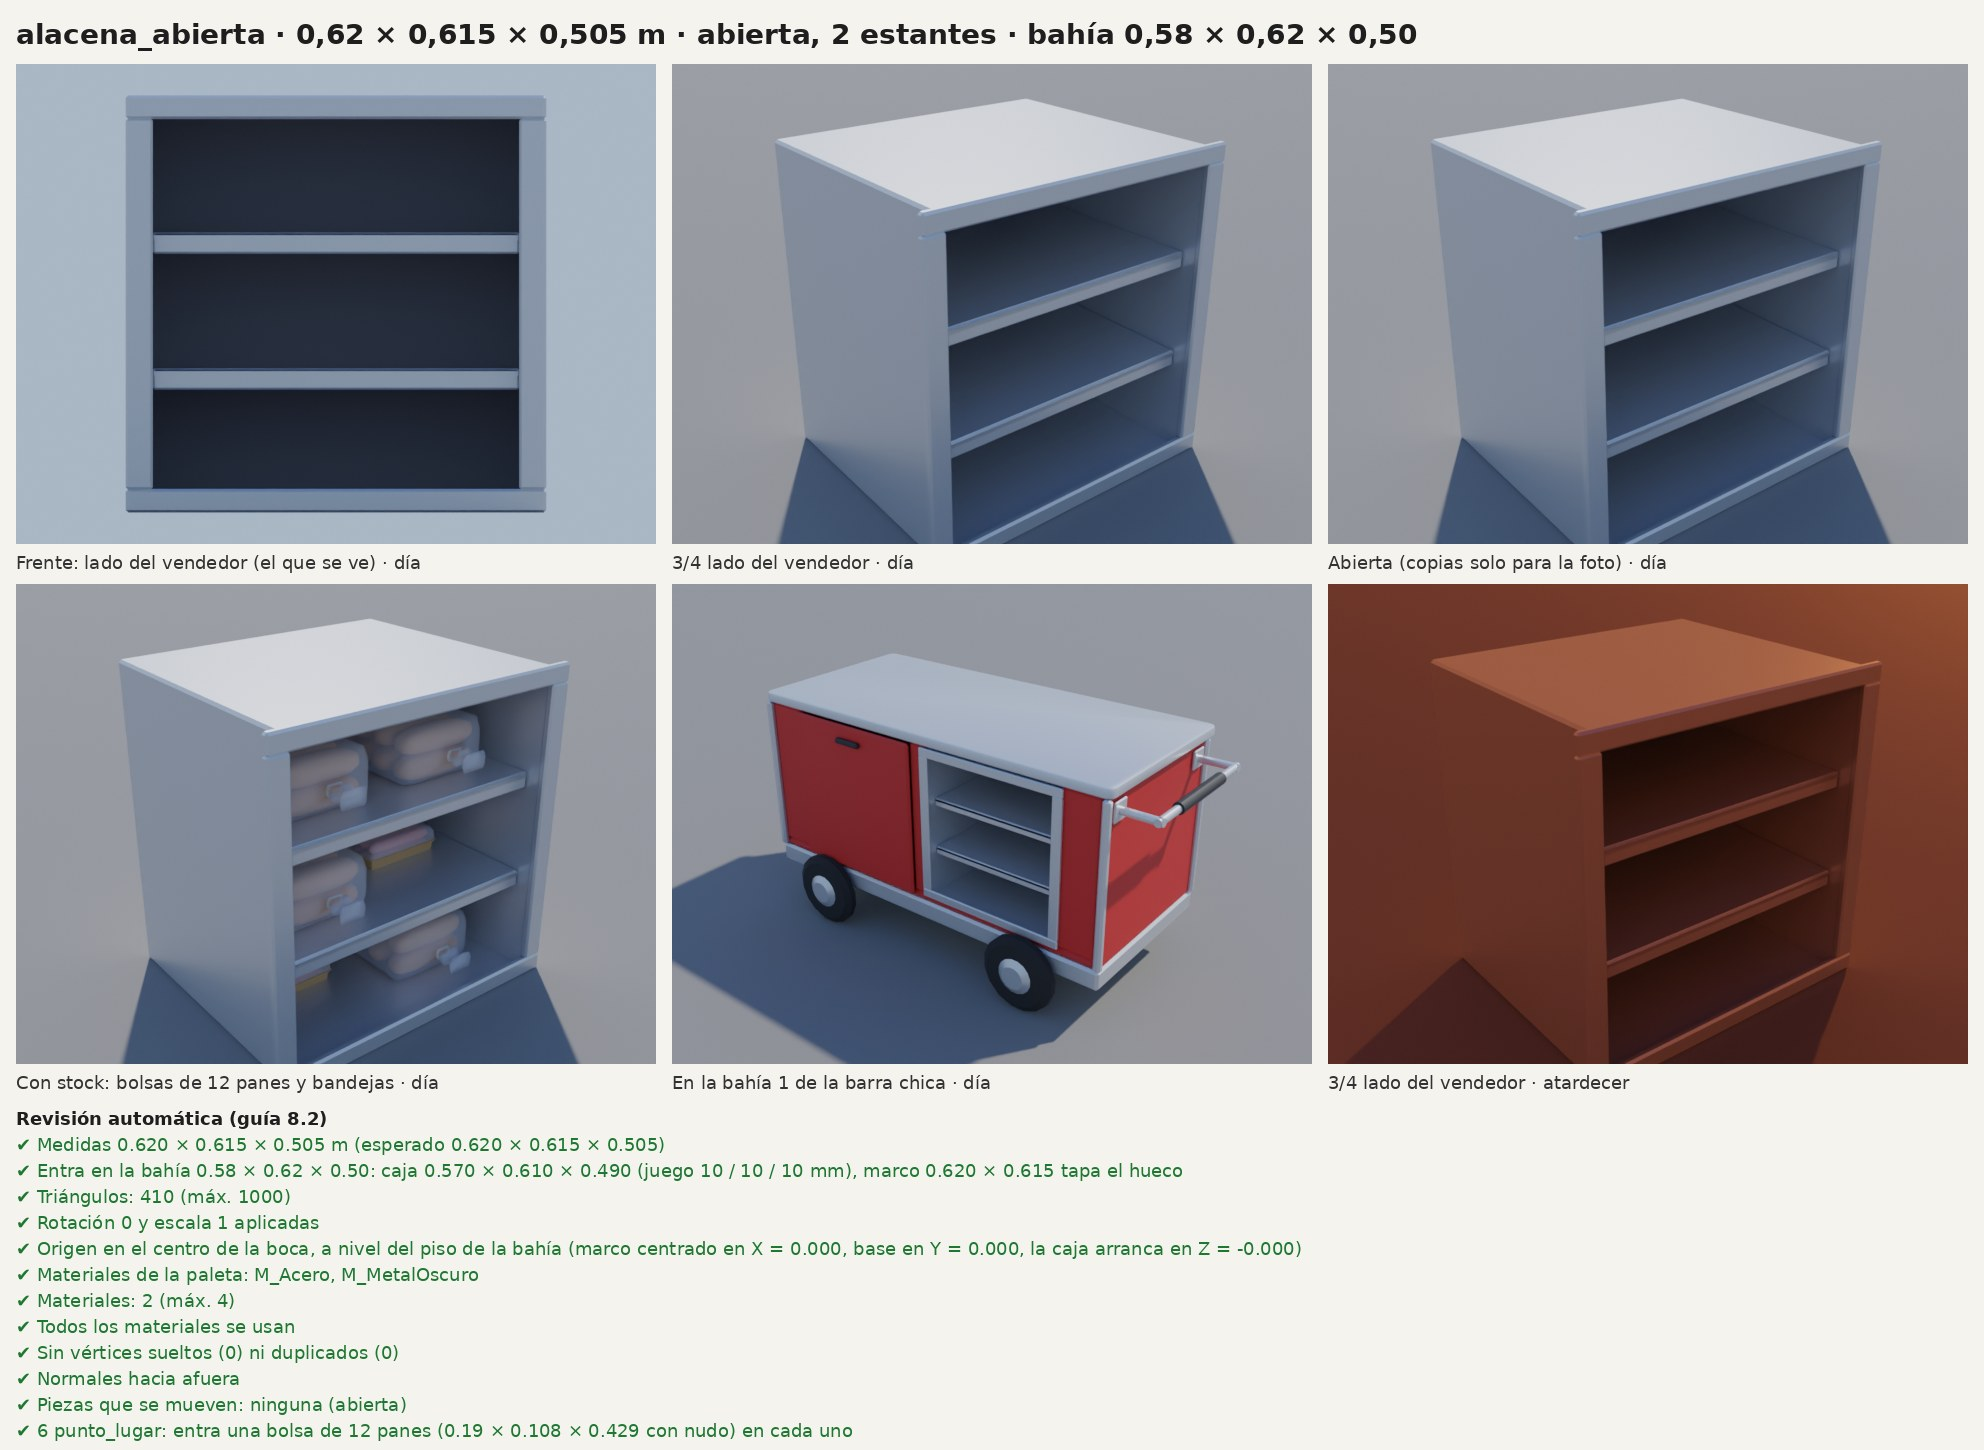
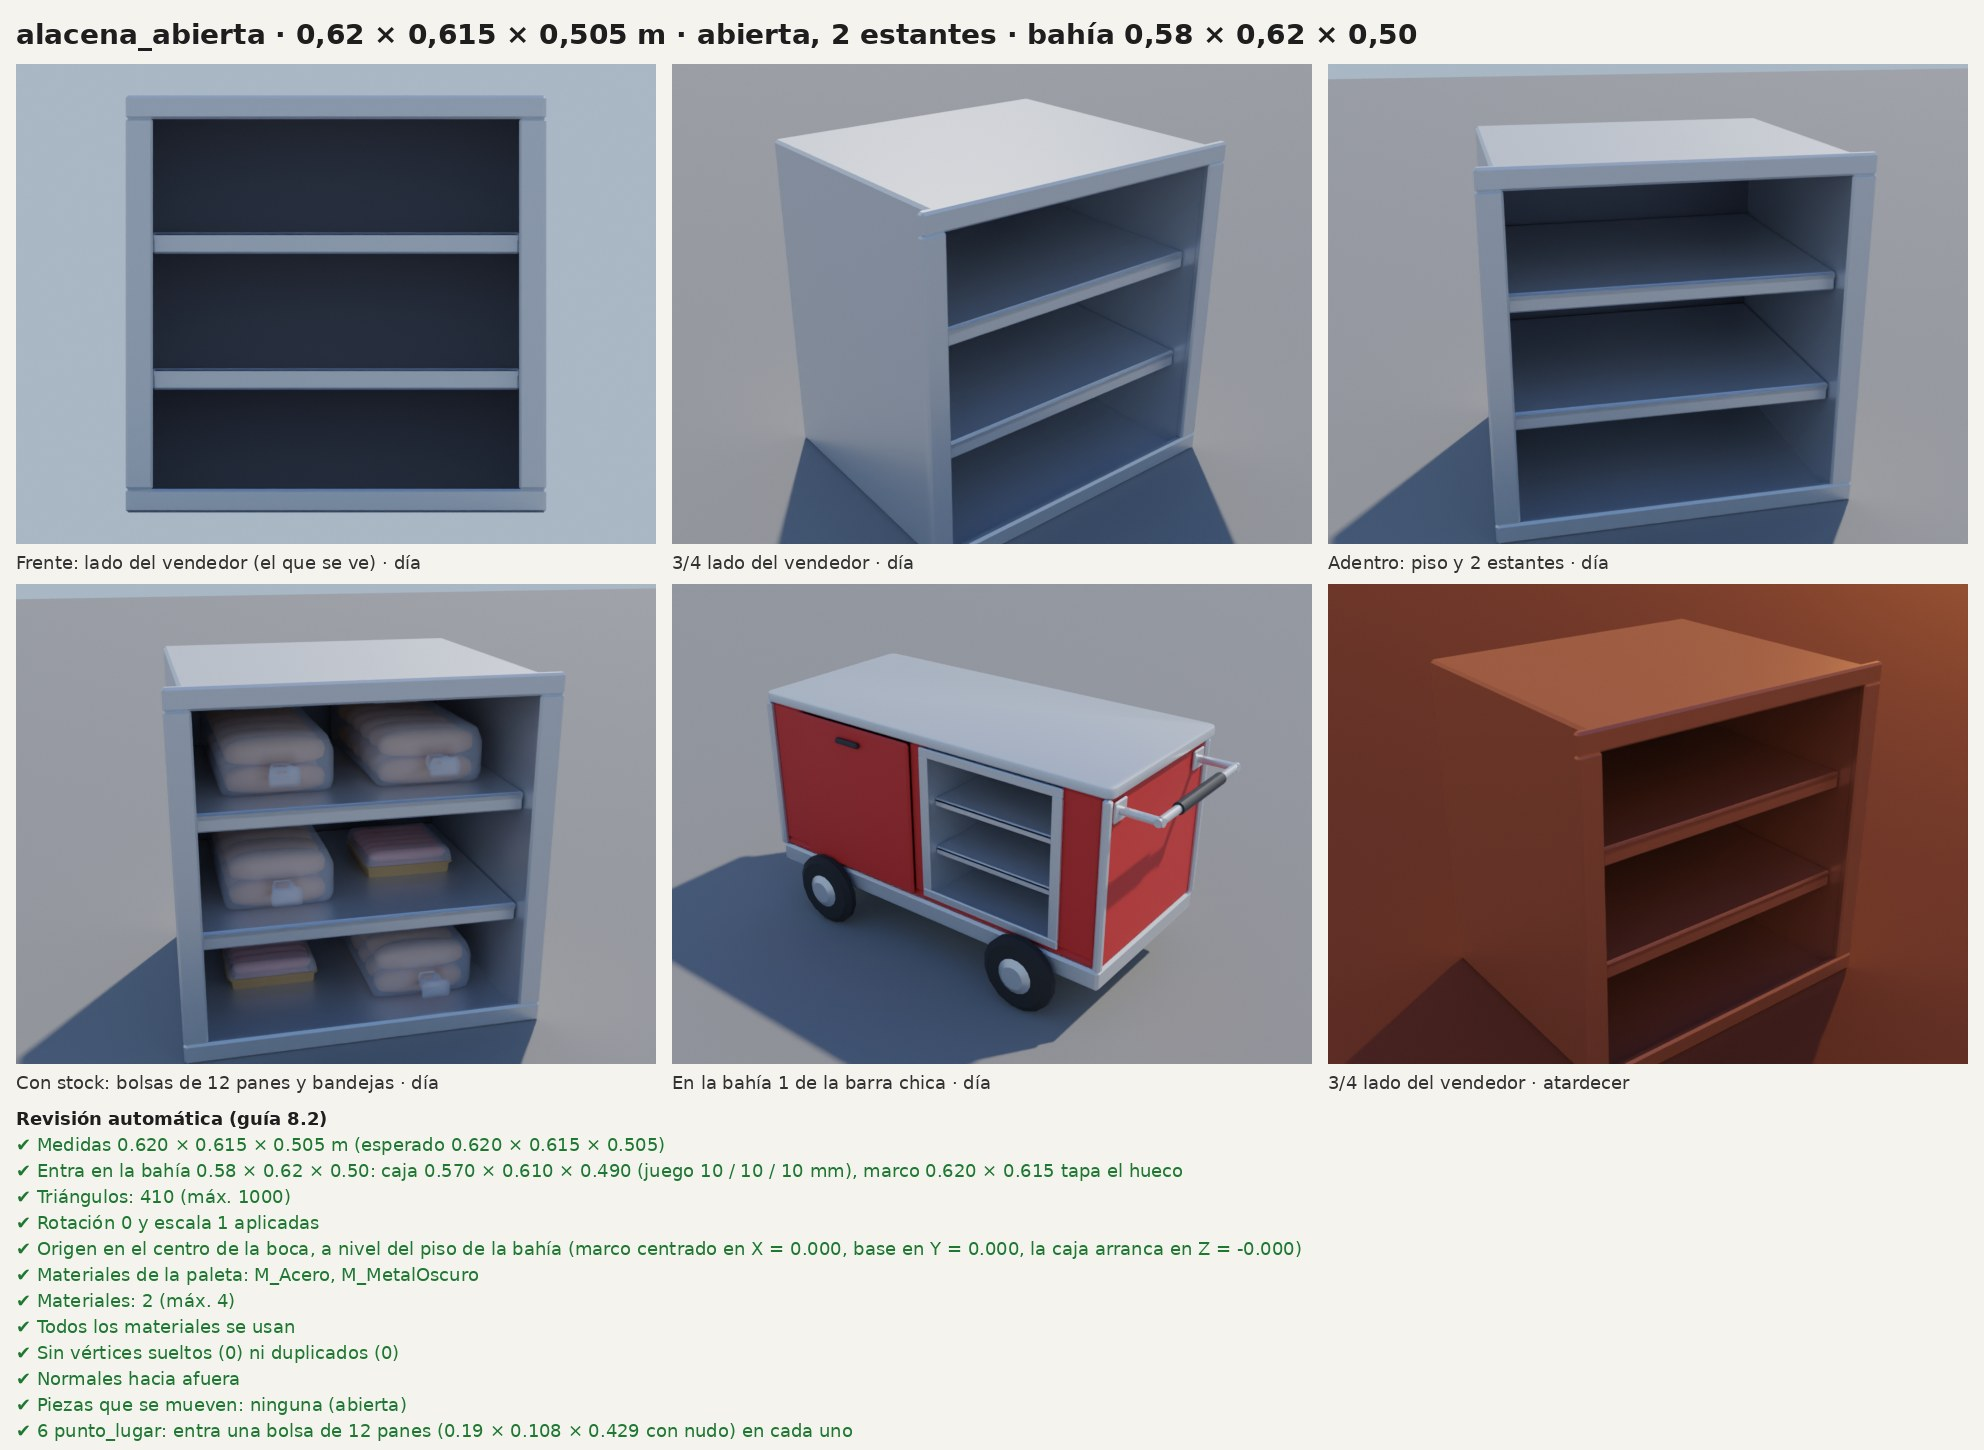
Modelos en progreso
Claude-Session: https://claude.ai/code/session_01HjM8QSzeKUircBU4mCxhsR

Changed region(s): [[0.6562, 0.031, 0.9688, 0.4034], [0.0, 0.4034, 0.3125, 0.7448]]

diff --git a/tools/blender/modelos/_alacena.py b/tools/blender/modelos/_alacena.py
@@ -577,7 +577,8 @@ def hoja_revision(m, revision):
         ("Abierta (copias solo para la foto) · día", abiertos, "vendedor_derecha", "dia")
         if m["puertas"] or m["cajones"] else
         ("Adentro: piso y 2 estantes · día", v, "vendedor_frente", "dia"),
-        ("Con stock: bolsas de 12 panes y bandejas · día", lleno, "vendedor_frente", "dia"),
+        ("Con stock: bolsas de 12 panes y bandejas · día", lleno,
+         "vendedor_alto" if m["cajones"] else "vendedor_frente", "dia"),
         ("En la bahía 1 de la barra chica · día", en_carro, "vendedor", "dia"),
         ("3/4 lado del vendedor · atardecer", v, "vendedor_derecha", "atardecer"),
     ])

diff --git a/tools/blender/modelos/_base_carrito.py b/tools/blender/modelos/_base_carrito.py
@@ -530,6 +530,7 @@ DIRECCIONES = {  # en Blender (frente = −Y)
     "atras": (Vector((0, 1, 0)), True),              # de atrás: lado del vendedor
     "vendedor_derecha": (Vector((1, 1.3, 0.75)), False),  # 3/4 desde atrás, lado +X
     "vendedor_frente": (Vector((0.3, 1.3, 0.45)), False),  # casi de atrás: se ve adentro
+    "vendedor_alto": (Vector((0.5, 1.0, 1.25)), False),    # de arriba: adentro de los cajones
 }
 
 # Alacenas que se ponen en las bahías para la foto (de −X a +X).
